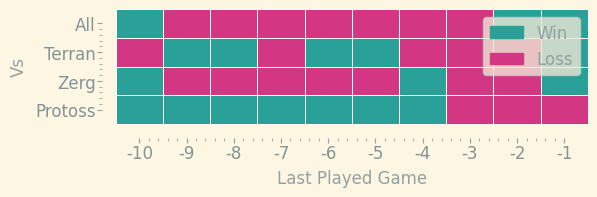
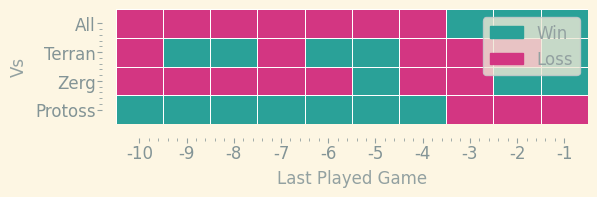
running on push

diff --git a/docs/index.md b/docs/index.md
@@ -18,7 +18,7 @@ layout: home
   <tbody>
     <tr>
       <td>Matches Played</td>
-      <td>1317</td>
+      <td>1318</td>
     </tr>
     <tr>
       <td>MMR Gained</td>
@@ -26,7 +26,7 @@ layout: home
     </tr>
     <tr>
       <td>MMR lost</td>
-      <td>12393</td>
+      <td>12411</td>
     </tr>
     <tr>
       <td>Max MMR</td>
@@ -90,11 +90,11 @@ layout: home
       <td>149</td>
     </tr>
     <tr>
-      <td>Hunter</td>
+      <td>GhostDragon</td>
       <td>122</td>
     </tr>
     <tr>
-      <td>GhostDragon</td>
+      <td>Hunter</td>
       <td>122</td>
     </tr>
     <tr>
@@ -116,7 +116,7 @@ layout: home
 |:--------|-------:|---------:|--------:|---------------:|-------------:|-----------:|
 | Protoss |    232 |      298 |     530 |        43.7736 |         4184 |       5158 |
 | Terran  |    137 |      188 |     325 |        42.1538 |         3515 |       2626 |
-| Zerg    |    258 |      191 |     449 |        57.461  |         4068 |       4193 |
+| Zerg    |    258 |      192 |     450 |        57.3333 |         4068 |       4193 |
 
 ![Games by Race](./assets/gm_hist.png)
 
